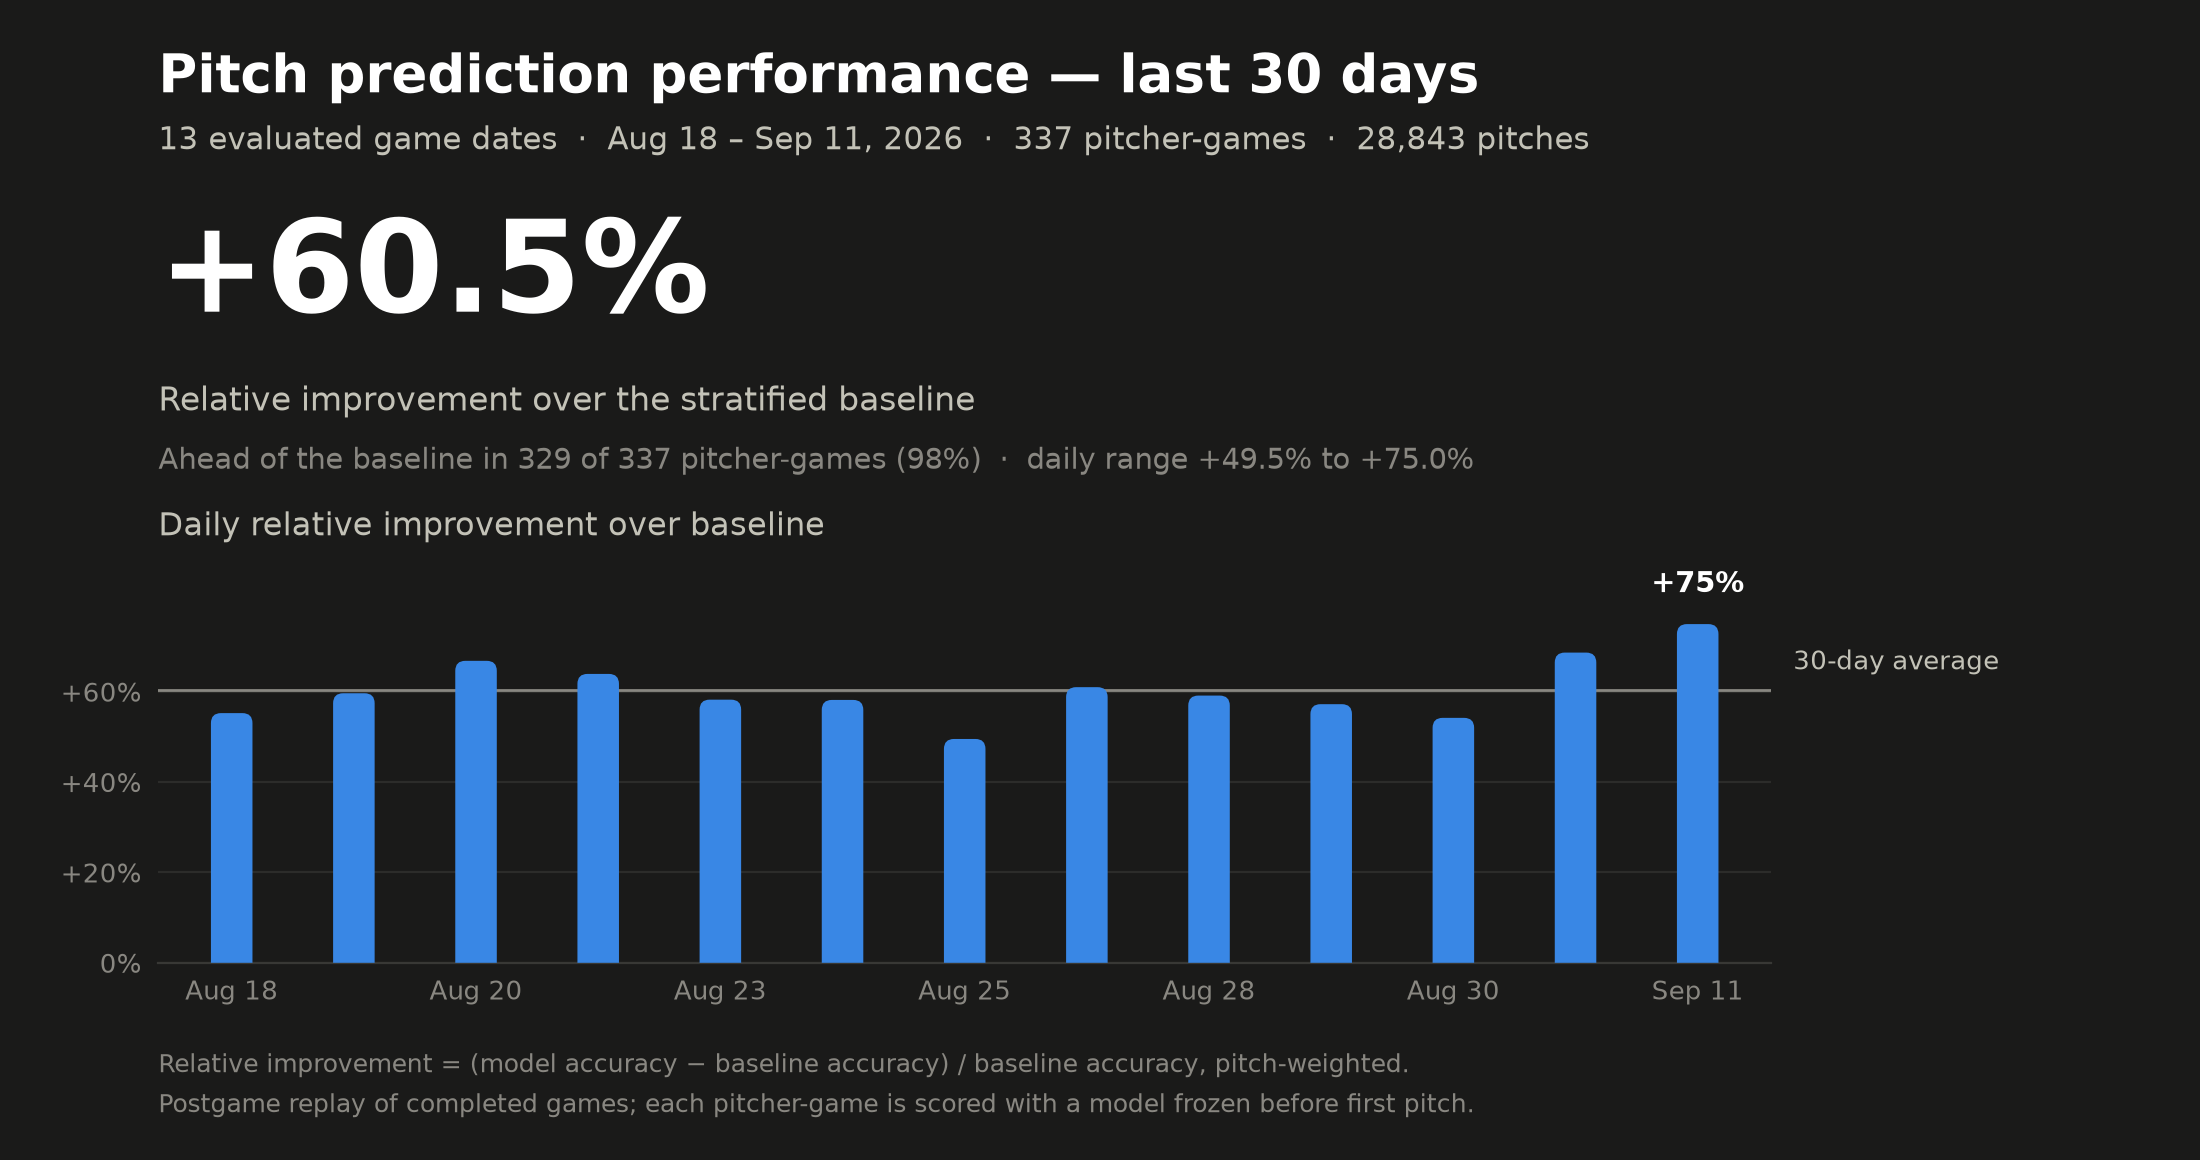
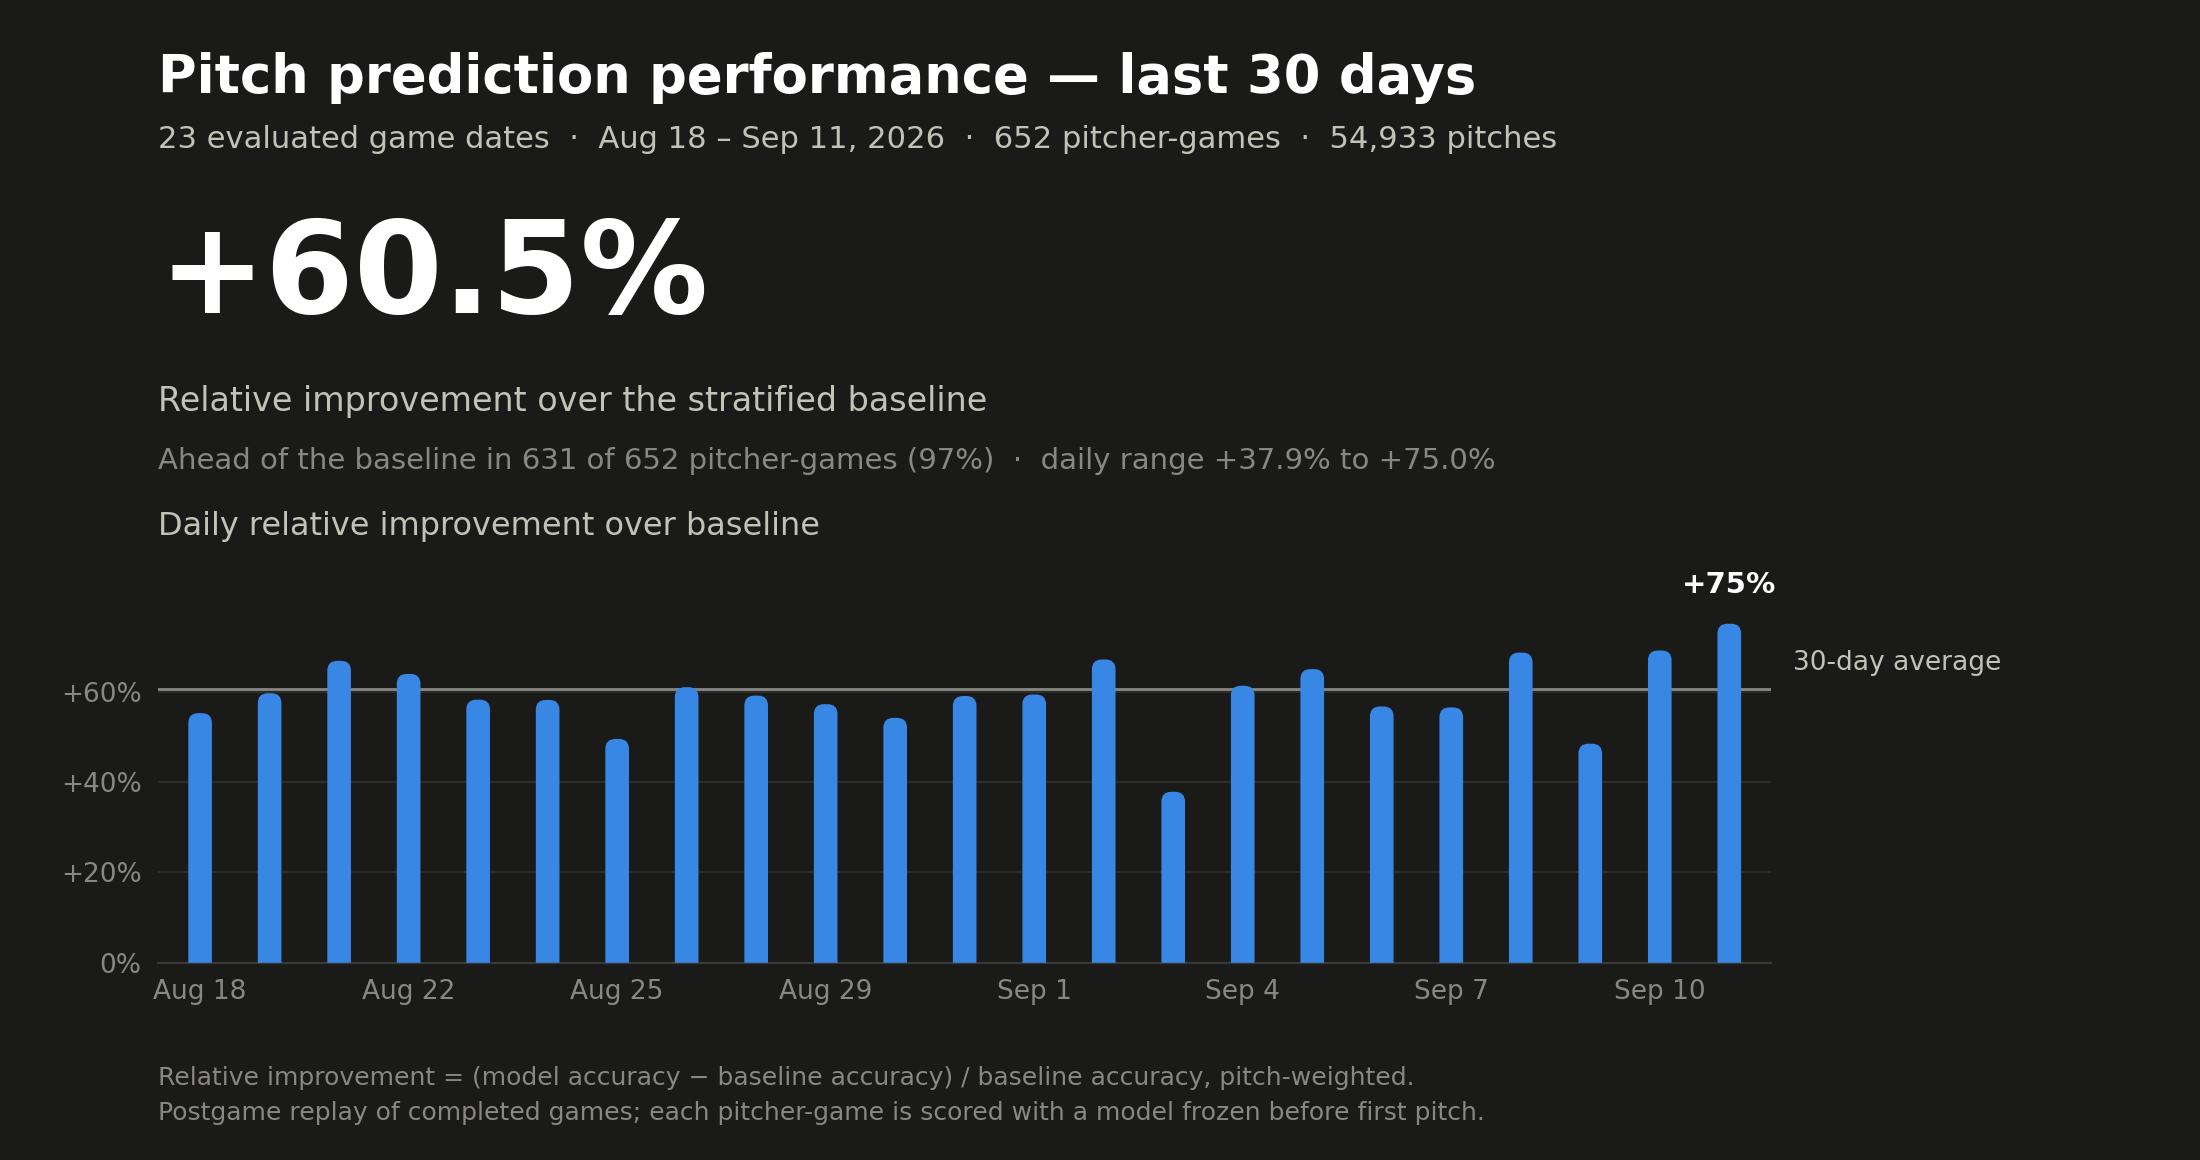
Readme update

diff --git a/README.md b/README.md
@@ -21,11 +21,11 @@ Results come from automated postgame replay of every eligible MLB starting pitch
 <p align="center">
   <picture>
     <source media="(prefers-color-scheme: dark)" srcset="Docs/assets/recent_performance_dark.png">
-    <img alt="Relative improvement over baseline, last 30 days: +60.5% overall across 28,843 pitches, shown as one column per evaluated game date against the period average" src="Docs/assets/recent_performance_light.png" width="900">
+    <img alt="Relative improvement over baseline, last 30 days: +60.5% overall across 54,933 pitches, shown as one column per evaluated game date against the period average" src="Docs/assets/recent_performance_light.png" width="900">
   </picture>
 </p>
 
-**Trailing 30 days** · 13 evaluated game dates (August 18 – September 11, 2026) · 337 pitcher-games · 160 pitchers · 28,843 pitches
+**Trailing 30 days** · 23 evaluated game dates (August 18 – September 11, 2026) · 652 pitcher-games · 204 pitchers · 54,933 pitches
 
 | Game date | Pitcher-games | Pitches | Relative improvement over baseline |
 |---|---:|---:|---:|
@@ -40,11 +40,21 @@ Results come from automated postgame replay of every eligible MLB starting pitch
 | Aug 28 | 30 | 2,691 | +59.1% |
 | Aug 29 | 32 | 2,415 | +57.2% |
 | Aug 30 | 27 | 2,455 | +54.2% |
-| Sep 8 | 30 | 2,519 | +68.7% |
-| Sep 11 | 30 | 2,508 | +75.0% |
-| **30-day total** | **337** | **28,843** | **+60.5%** |
+| Aug 31 | 24 | 2,078 | +59.0% |
+| Sep 1 | 30 | 2,461 | +59.4% |
+| Sep 2 | 30 | 2,382 | +67.1% |
+| Sep 3 | 18 | 1,597 | +37.9% |
+| Sep 4 | 32 | 2,610 | +61.3% |
+| Sep 5 | 30 | 2,564 | +65.0% |
+| Sep 6 | 29 | 2,419 | +56.7% |
+| Sep 7 | 22 | 1,878 | +56.5% |
+| Sep 8 | 60 | 5,038 | +68.7% |
+| Sep 9 | 30 | 2,249 | +48.5% |
+| Sep 10 | 10 | 825 | +69.1% |
+| Sep 11 | 60 | 5,016 | +75.0% |
+| **30-day total** | **652** | **54,933** | **+60.5%** |
 
-The model finished ahead of the baseline in 329 of 337 pitcher-games (98%).
+The model finished ahead of the baseline in 631 of 652 pitcher-games (97%).
 
 <!-- RESULTS:END -->
 
